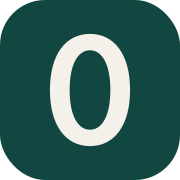
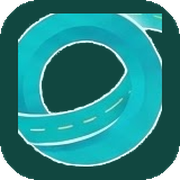
Use the skyline lockup for light and dark themes.
The header, app, and favicon now use the supplied 0neStreet artwork: the bright version on light surfaces and the deep version on dark ones.

diff --git a/src/components/brand/brand-mark.tsx b/src/components/brand/brand-mark.tsx
@@ -1,30 +1,38 @@
 import { cn } from "@/lib/utils";
 import type { BrandConfig } from "@/lib/brand/config";
 
-/** "0ne" — geometric grotesque, numeral zero. */
-const ONE =
-  "M19.69 17.7c7.93 0 13.22 6.66 13.22 18.5c0 11.84-5.29 18.5-13.22 18.5c-7.93 0-13.21-6.66-13.21-18.5c0-11.84 5.28-18.5 13.21-18.5zM19.69 23.1c-3.89 0-6.71 4.45-6.71 13.1c0 8.65 2.82 13.1 6.71 13.1c3.9 0 6.72-4.45 6.72-13.1c0-8.65-2.82-13.1-6.72-13.1zM38 54v-32h6v6.2c1.39-3.02 4.83-6.7 9.55-6.7c5.41 0 10.65 4.84 10.65 12.1v20.4h-6.2v-19.6c0-4.56-2.53-7.6-6.6-7.6c-4.49 0-7.2 3.69-7.2 8.2v19zM84.21 21.4c8.54 0 14.4 6.4 14.4 16v2.6h-22.8c0 5.67 3.84 9.45 8.78 9.45c3.39 0 5.62-1.78 6.85-4.72l5.59 1.29c-2.25 5.41-6.41 8.68-12.59 8.68c-8.52 0-15.03-6.23-15.03-16.5c0-9.71 5.81-16.8 14.8-16.8zM75.81 35.2h16.5c0-5.13-3.36-8.55-8.31-8.55c-4.94 0-8.19 3.42-8.19 8.55z";
+type Tone = "auto" | "light" | "dark";
 
-/** "Street" */
-const STREET =
-  "M117.84 54.8c-8.65 0-15.3-5.38-15.59-12.8h6.5c.16 4.18 3.9 7.2 9.09 7.2c5.08 0 8.91-2.91 8.91-6.4c0-3.43-3.68-6.48-8.76-7.75c-8.55-2.13-14.74-7.07-14.74-13.45c0-6.34 6.13-12.3 14.87-12.3c8.04 0 14.25 5.04 14.53 12h-6.5c-.15-3.71-3.41-6.4-8.16-6.4c-4.62 0-8.24 2.55-8.24 6.1c0 3.36 3.25 6.63 7.75 7.75c9.13 2.27 15.75 7.41 15.75 13.85c0 6.32-6.37 12.2-15.41 12.2zM140 14h6.2v8h6.2v5.1h-6.2v17.9c0 2.32 .86 4 3.42 4c.73 0 1.62-.14 2.43-.2l.9 5.3c-1.67 .25-3.4 .5-4.13 .5c-2.8 0-8.82-3.78-8.82-9v-18.5h-4.65v-5.1h4.65zM156 54v-32h6v5.6c1.06-2.74 3.73-6.1 8.4-6.1c.66 0 2.18 .07 3 .15v5.95c-6.72-.81-11.2 2.5-11.2 7.2v19.2zM190.05 21.4c8.54 0 14.4 6.4 14.4 16v2.6h-22.8c0 5.67 3.84 9.45 8.78 9.45c3.39 0 5.63-1.78 6.85-4.72l5.59 1.29c-2.24 5.41-6.4 8.68-12.58 8.68c-8.53 0-15.04-6.23-15.04-16.5c0-9.71 5.82-16.8 14.8-16.8zM181.65 35.2h16.5c0-5.13-3.35-8.55-8.3-8.55c-4.95 0-8.2 3.42-8.2 8.55zM222.9 21.4c8.54 0 14.4 6.4 14.4 16v2.6h-22.8c0 5.67 3.84 9.45 8.78 9.45c3.39 0 5.63-1.78 6.85-4.72l5.59 1.29c-2.24 5.41-6.4 8.68-12.58 8.68c-8.53 0-15.04-6.23-15.04-16.5c0-9.71 5.82-16.8 14.8-16.8zM214.5 35.2h16.5c0-5.13-3.35-8.55-8.3-8.55c-4.95 0-8.2 3.42-8.2 8.55zM244 14h6.2v8h6.2v5.1h-6.2v17.9c0 2.32 .86 4 3.42 4c.73 0 1.62-.14 2.43-.2l.9 5.3c-1.67 .25-3.4 .5-4.13 .5c-2.8 0-8.82-3.78-8.82-9v-18.5h-4.65v-5.1h4.65z";
-
-/** The name is the logo. No separate symbol sits beside it. */
+/**
+ * The supplied skyline lockup. Light and dark files are the two theme versions.
+ * `auto` follows the `.dark` class on the document. Pass `dark` on surfaces that
+ * stay ink-colored in both themes, such as the admin sidebar.
+ */
 export function BrandMark({
   className,
-  accentClassName = "text-[var(--accent)]",
+  tone = "auto",
 }: {
   brand?: BrandConfig;
   className?: string;
   accentClassName?: string;
   showMark?: boolean;
+  tone?: Tone;
 }) {
   return (
-    <span className={cn("inline-flex items-center leading-none", className)}>
-      <svg viewBox="0 0 264 64" className="h-[1.45em] w-auto" role="img" aria-label="0neStreet">
-        <path fill="currentColor" d={ONE} />
-        <path className={accentClassName} fill="currentColor" d={STREET} />
-      </svg>
+    <span
+      className={cn("brand-mark inline-flex items-center leading-none", className)}
+      data-tone={tone}
+      role="img"
+      aria-label="0neStreet"
+    >
+      {tone !== "dark" ? (
+        // eslint-disable-next-line @next/next/no-img-element
+        <img src="/brand/logo-light.png" alt="" className="brand-mark-light" />
+      ) : null}
+      {tone !== "light" ? (
+        // eslint-disable-next-line @next/next/no-img-element
+        <img src="/brand/logo-dark.png" alt="" className="brand-mark-dark" />
+      ) : null}
     </span>
   );
 }

diff --git a/src/app/admin/layout.tsx b/src/app/admin/layout.tsx
@@ -228,7 +228,7 @@ function AdminGuard({ children }: { children: React.ReactNode }) {
       <div className="mx-auto flex h-full max-w-[1600px] gap-4 p-3 lg:p-4">
         <aside className="hidden w-64 shrink-0 flex-col overflow-hidden rounded-[1.75rem] border border-white/8 bg-[linear-gradient(165deg,#0b121a_0%,#152031_100%)] bg-[image:var(--ink-mesh),linear-gradient(165deg,#0b121a_0%,#152031_100%)] p-4 text-white shadow-[var(--shadow-ink)] lg:flex">
           <div className="flex items-center gap-2">
-            <BrandMark className="text-xl text-white" />
+            <BrandMark tone="dark" className="text-xl" />
           </div>
           <div className="mt-1.5 flex items-center gap-1.5">
             <ShieldCheck className="h-3 w-3 text-[var(--accent-on-ink)]" aria-hidden />

diff --git a/src/components/marketing/nav.tsx b/src/components/marketing/nav.tsx
@@ -33,10 +33,7 @@ export function MarketingNav({ market }: { market: Market }) {
     >
       <div className="mx-auto flex h-16 max-w-7xl items-center justify-between px-5 sm:px-8">
         <Link href={market === "uk" ? "/UK" : "/US"} className="flex items-center" aria-label="0neStreet">
-          <BrandMark
-            className="text-[17px] text-[var(--foreground)]"
-            accentClassName="text-[var(--accent)]"
-          />
+          <BrandMark className="text-[20px]" />
         </Link>
         <nav className="hidden items-center gap-1 lg:flex" aria-label="Product">
           {copy.nav.map((link) => (

diff --git a/src/components/marketing/product-frame.tsx b/src/components/marketing/product-frame.tsx
@@ -67,7 +67,7 @@ function Desk({ uk }: { uk: boolean }) {
   return (
     <div className="grid min-h-[22rem] grid-cols-[7.5rem_1fr] sm:grid-cols-[9.5rem_1fr]">
       <aside className="border-r border-[var(--border)] bg-[var(--surface-muted)] px-3 py-4">
-        <BrandMark className="px-2 text-sm text-[var(--foreground)]" accentClassName="text-[var(--accent)]" />
+        <BrandMark className="px-1 text-base" />
         <ul className="mt-5 space-y-1 text-xs font-medium">
           {["Today", "Enquiries", "Diary", "Deals"].map((item, index) => (
             <li

diff --git a/src/app/globals.css b/src/app/globals.css
@@ -500,6 +500,25 @@ select:not([multiple]) optgroup {
   border-radius: var(--radius-sm);
 }
 
+/* Theme lockup. The image height follows the surrounding font size. */
+.brand-mark img {
+  display: block;
+  height: 2.45em;
+  width: auto;
+}
+
+.brand-mark[data-tone="auto"] .brand-mark-dark {
+  display: none;
+}
+
+.dark .brand-mark[data-tone="auto"] .brand-mark-light {
+  display: none;
+}
+
+.dark .brand-mark[data-tone="auto"] .brand-mark-dark {
+  display: block;
+}
+
 @media (prefers-reduced-motion: reduce) {
   .animate-float-slow,
   .animate-pulse-ring,

diff --git a/src/app/layout.tsx b/src/app/layout.tsx
@@ -39,7 +39,10 @@ export async function generateMetadata(): Promise<Metadata> {
     },
     description: brand.supporting,
     icons: {
-      icon: [{ url: "/brand/mark.svg", type: "image/svg+xml" }],
+      icon: [
+        { url: "/brand/favicon-32.png", sizes: "32x32", type: "image/png" },
+        { url: "/brand/icon-512.png", sizes: "512x512", type: "image/png" },
+      ],
       apple: "/brand/apple-touch.png",
     },
   };
